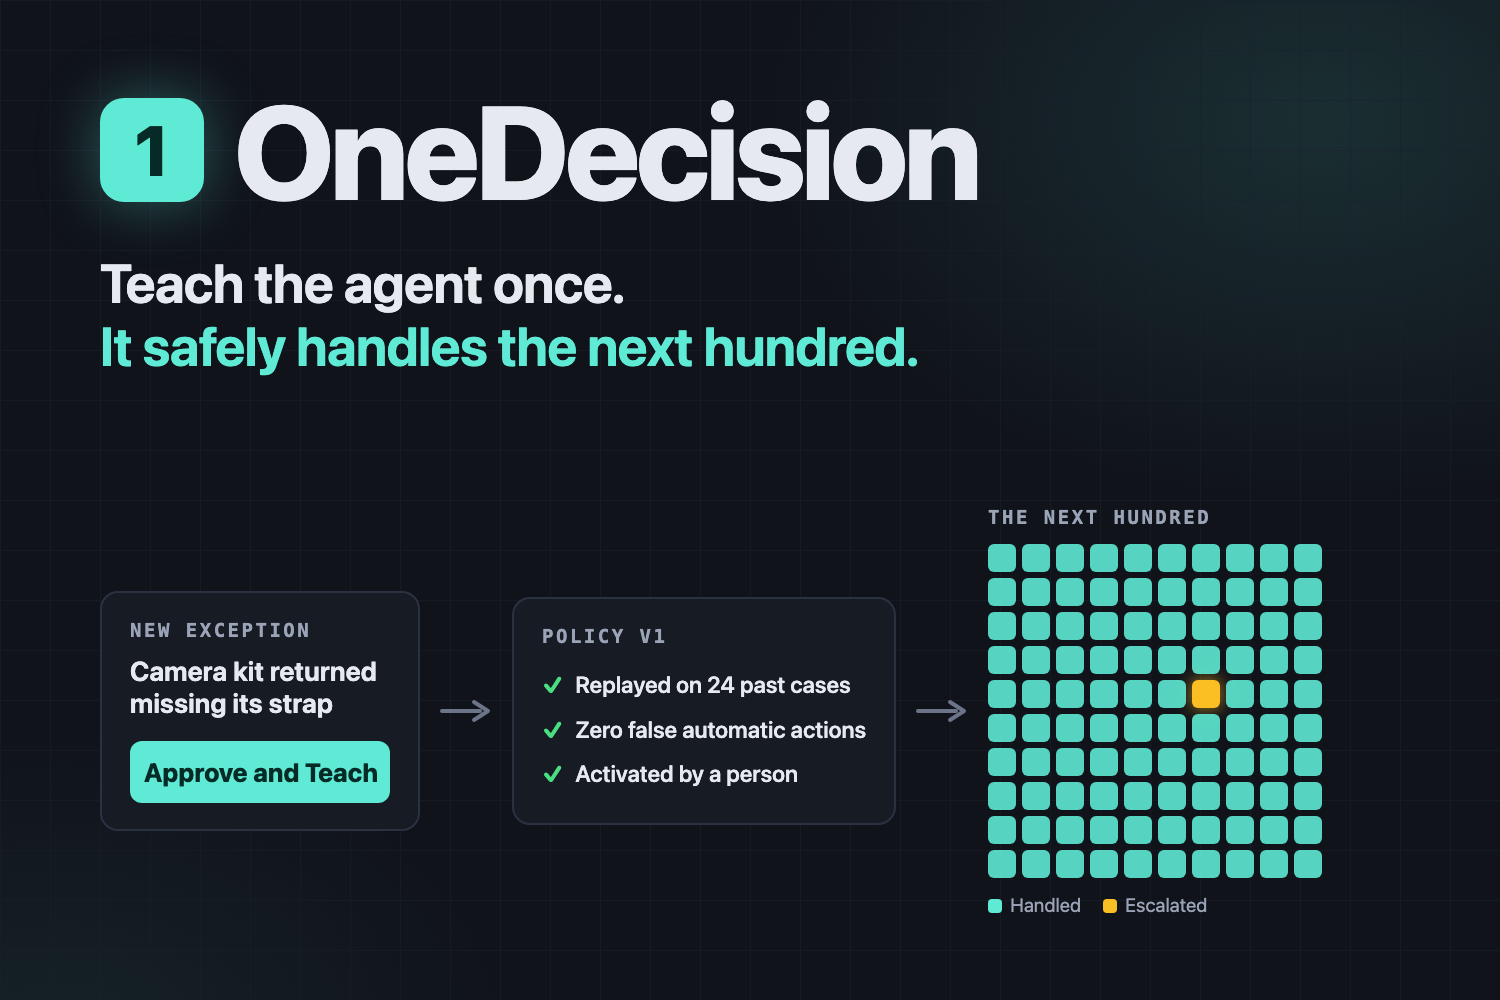
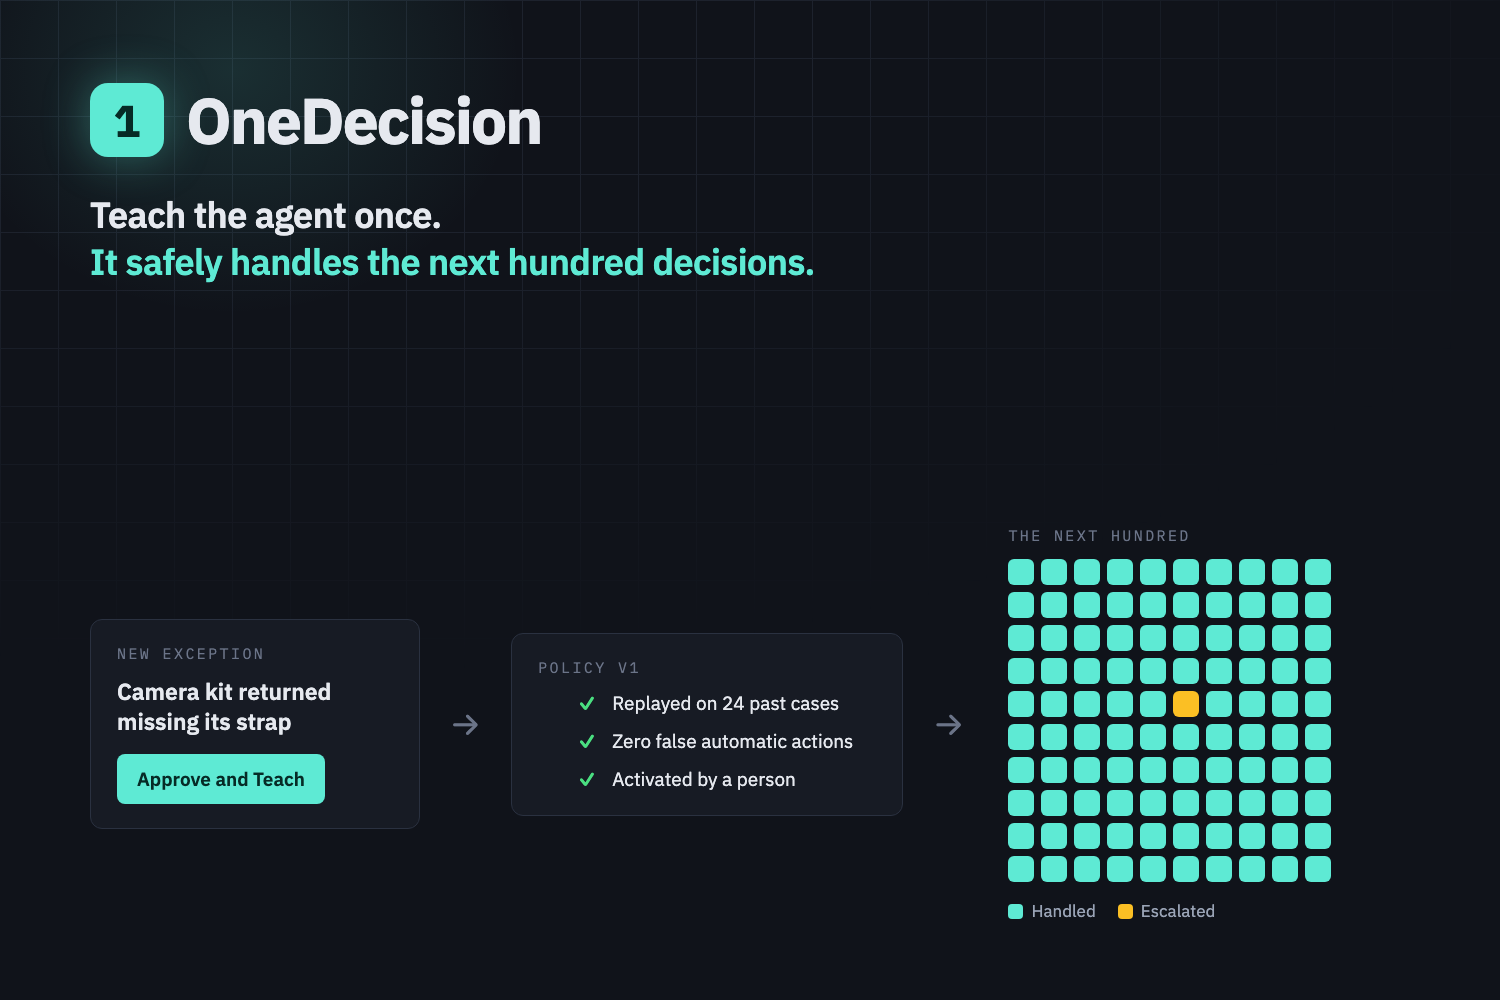
Say what the hundred are
A viewer outside the project read the closing card's "It safely handles the next
hundred" and did not know a hundred what. It says "the next hundred decisions"
now, and the voice over it says the same, because they play at the same moment.

The card was a PNG with no source, so a one-word change meant redrawing it by
hand. It is HTML rendered by tools/endcard/build_endcard.py now, which is what
made this a two-minute change instead of an afternoon.

diff --git a/tools/endcard/endcard.html b/tools/endcard/endcard.html
@@ -1,0 +1,121 @@
+<!doctype html><meta charset="utf-8">
+<link rel="preconnect" href="https://fonts.googleapis.com">
+<link rel="preconnect" href="https://fonts.gstatic.com" crossorigin>
+<link rel="stylesheet" href="https://fonts.googleapis.com/css2?family=IBM+Plex+Mono:wght@400;500;600&family=IBM+Plex+Sans:wght@400;500;600;700&display=swap">
+<style>
+  :root {
+    --bg: #10131a; --panel: #171b24; --panel-2: #1e232e; --line: #2a3140;
+    --ink: #e6e9ef; --dim: #9aa4b6; --faint: #6b7488;
+    --accent: #5eead4; --warn: #fbbf24;
+    --mono: "IBM Plex Mono", ui-monospace, Menlo, monospace;
+    --sans: "IBM Plex Sans", ui-sans-serif, system-ui, sans-serif;
+  }
+  * { box-sizing: border-box; margin: 0; }
+  html, body { width: 1500px; height: 1000px; }
+  body {
+    background: var(--bg); color: var(--ink); font-family: var(--sans);
+    position: relative; overflow: hidden; padding: 78px 90px;
+    display: flex; flex-direction: column;
+  }
+  /* A faint grid, so the ground is not flat black. */
+  .grid {
+    position: absolute; inset: 0; pointer-events: none; opacity: .5;
+    background-image: linear-gradient(var(--line) 1px, transparent 1px),
+                      linear-gradient(90deg, var(--line) 1px, transparent 1px);
+    background-size: 58px 58px;
+    -webkit-mask-image: radial-gradient(120% 90% at 20% 0%, #000 30%, transparent 75%);
+            mask-image: radial-gradient(120% 90% at 20% 0%, #000 30%, transparent 75%);
+  }
+  .glow {
+    position: absolute; left: -12%; top: -28%; width: 55%; height: 70%;
+    background: radial-gradient(closest-side, rgba(94,234,212,.13), transparent 70%);
+    pointer-events: none;
+  }
+
+  .brand { display: flex; align-items: center; gap: 22px; position: relative; }
+  .badge {
+    width: 74px; height: 74px; border-radius: 18px; background: var(--accent);
+    color: #062b26; font-weight: 700; font-size: 44px;
+    display: grid; place-items: center;
+    box-shadow: 0 0 46px rgba(94, 234, 212, .35);
+  }
+  .wordmark { font-size: 64px; font-weight: 700; letter-spacing: -.03em; }
+
+  .tagline { margin-top: 30px; font-size: 36px; font-weight: 600; line-height: 1.3;
+             letter-spacing: -.015em; position: relative; }
+  .tagline .green { color: var(--accent); }
+
+  .flow { margin-top: auto; display: flex; align-items: center; gap: 30px; position: relative; }
+  .card {
+    background: var(--panel); border: 1px solid var(--line); border-radius: 12px;
+    padding: 24px 26px; width: 330px;
+  }
+  /* The policy card holds three claims that must each sit on one line. */
+  .card.policy { width: 392px; }
+  .label {
+    font-family: var(--mono); font-size: 15px; letter-spacing: .16em;
+    text-transform: uppercase; color: var(--faint); margin-bottom: 14px;
+  }
+  .card h3 { font-size: 23px; font-weight: 600; line-height: 1.3; margin-bottom: 18px; }
+  .btn {
+    display: inline-block; background: var(--accent); color: #062b26;
+    font-weight: 600; font-size: 19px; padding: 13px 20px; border-radius: 8px;
+  }
+  .card ul { list-style: none; display: grid; gap: 14px; }
+  .card li { display: grid; grid-template-columns: 24px 1fr; gap: 10px;
+             align-items: baseline; font-size: 19px; }
+  .tick { color: #4ade80; font-weight: 700; }
+  .arrow { color: var(--faint); font-size: 34px; flex: none; }
+
+  .hundred { margin-left: 14px; }
+  .cells { display: grid; grid-template-columns: repeat(10, 26px); gap: 7px; margin-top: 6px; }
+  .cell { width: 26px; height: 26px; border-radius: 6px; background: var(--accent); }
+  .cell.esc { background: var(--warn); }
+  .legend { display: flex; gap: 22px; margin-top: 18px; font-size: 17px; color: var(--dim); }
+  .key { display: flex; align-items: center; gap: 8px; }
+  .dot { width: 15px; height: 15px; border-radius: 4px; background: var(--accent); }
+  .dot.esc { background: var(--warn); }
+</style>
+
+<div class="grid"></div><div class="glow"></div>
+
+<div class="brand"><div class="badge">1</div><div class="wordmark">OneDecision</div></div>
+
+<p class="tagline">Teach the agent once.<br>
+  <span class="green">It safely handles the next hundred decisions.</span></p>
+
+<div class="flow">
+  <div class="card">
+    <div class="label">New exception</div>
+    <h3>Camera kit returned missing its strap</h3>
+    <span class="btn">Approve and Teach</span>
+  </div>
+  <div class="arrow">&rarr;</div>
+  <div class="card policy">
+    <div class="label">Policy v1</div>
+    <ul>
+      <li><span class="tick">&check;</span><span>Replayed on 24 past cases</span></li>
+      <li><span class="tick">&check;</span><span>Zero false automatic actions</span></li>
+      <li><span class="tick">&check;</span><span>Activated by a person</span></li>
+    </ul>
+  </div>
+  <div class="arrow">&rarr;</div>
+  <div class="hundred">
+    <div class="label">The next hundred</div>
+    <div class="cells" id="cells"></div>
+    <div class="legend">
+      <span class="key"><i class="dot"></i>Handled</span>
+      <span class="key"><i class="dot esc"></i>Escalated</span>
+    </div>
+  </div>
+</div>
+
+<script>
+  // One hundred cells, one escalated: the claim the video just finished proving.
+  const grid = document.getElementById("cells");
+  for (let i = 0; i < 100; i++) {
+    const c = document.createElement("div");
+    c.className = i === 45 ? "cell esc" : "cell";
+    grid.appendChild(c);
+  }
+</script>

diff --git a/tools/endcard/build_endcard.py b/tools/endcard/build_endcard.py
@@ -1,0 +1,33 @@
+"""Render the video's closing card to docs/thumbnail.png.
+
+Usage: python tools/endcard/build_endcard.py
+
+The card was a PNG with no source, so a one-word change meant redrawing it. It
+is HTML now. 1500x1000, the size the assembly expects.
+"""
+
+from __future__ import annotations
+
+import pathlib
+
+from playwright.sync_api import sync_playwright
+
+HERE = pathlib.Path(__file__).resolve().parent
+OUT = HERE.parent.parent / "docs" / "thumbnail.png"
+SIZE = {"width": 1500, "height": 1000}
+
+
+def main() -> None:
+    with sync_playwright() as p:
+        browser = p.chromium.launch()
+        page = browser.new_context(viewport=SIZE, device_scale_factor=1).new_page()
+        page.goto((HERE / "endcard.html").as_uri(), wait_until="networkidle")
+        page.wait_for_timeout(700)          # let the webfonts land
+        page.screenshot(path=str(OUT))
+        browser.close()
+    print(f"wrote {OUT.relative_to(HERE.parent.parent)}: "
+          f"{SIZE['width']}x{SIZE['height']}, {OUT.stat().st_size / 1024:.0f} KB")
+
+
+if __name__ == "__main__":
+    main()
